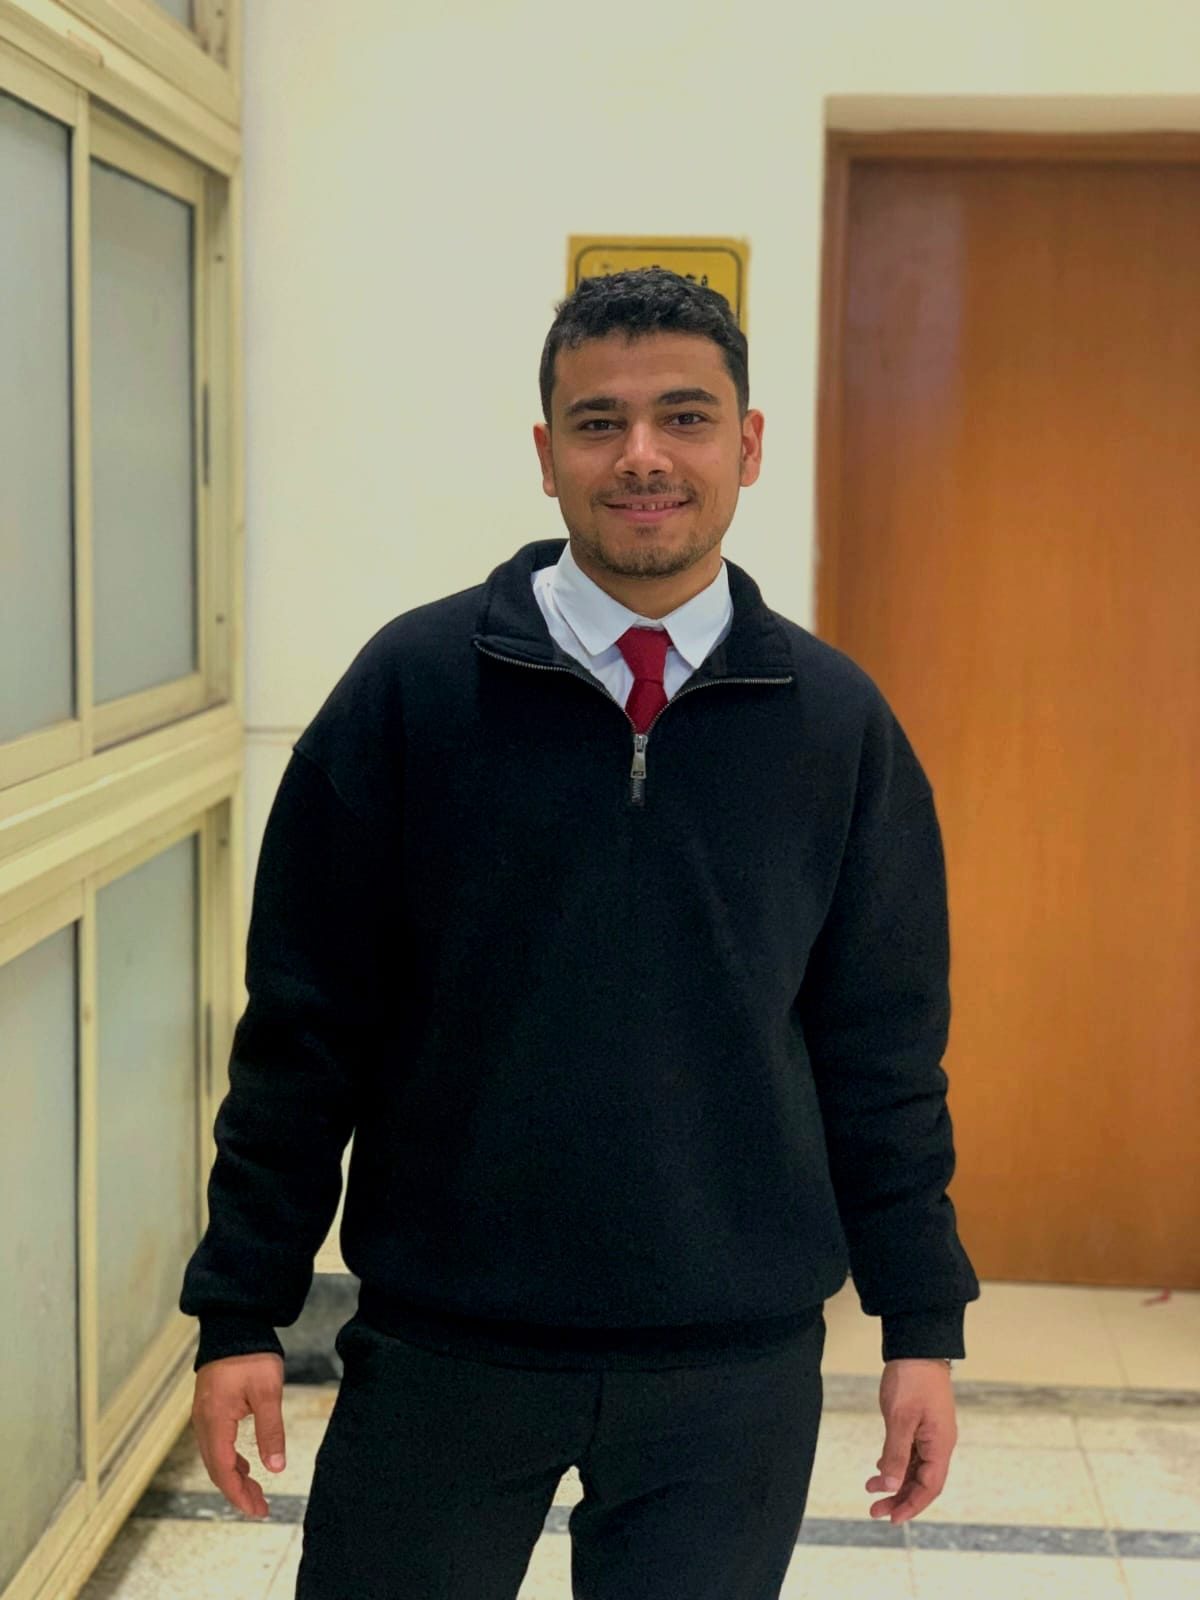
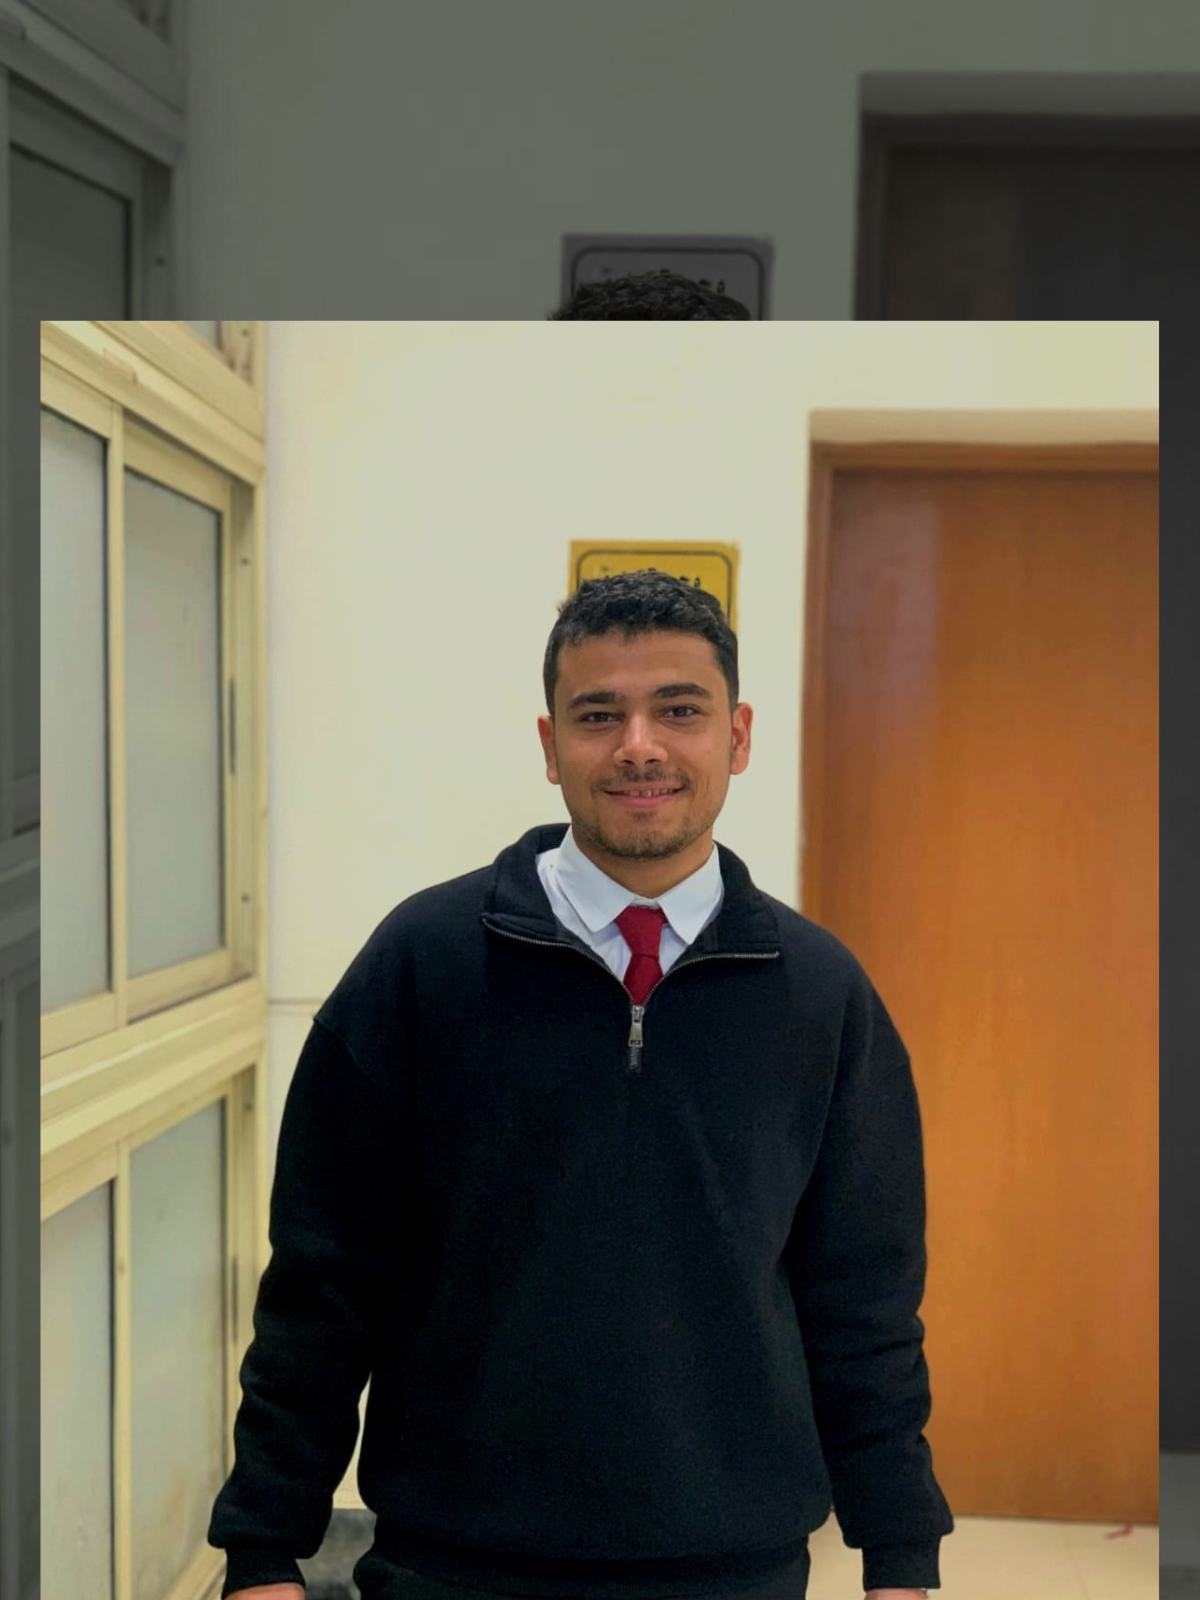
Add files via upload

diff --git a/index.html b/index.html
@@ -1480,7 +1480,7 @@ footer {
       <div class="phone-wrap fade-up" style="transition-delay:0.2s">
         <div class="phone-outer">
           <div class="phone">
-            <img src="ceo.jpeg" alt="CEO" class="phone-bg-img" onerror="this.style.display='none'"/>
+            <img src="keo.jpeg" alt="CEO" class="phone-bg-img" onerror="this.style.display='none'"/>
             <div class="phone-overlay"></div>
 
             <!-- TOP AREA: notch row + nav bar + clock -->
